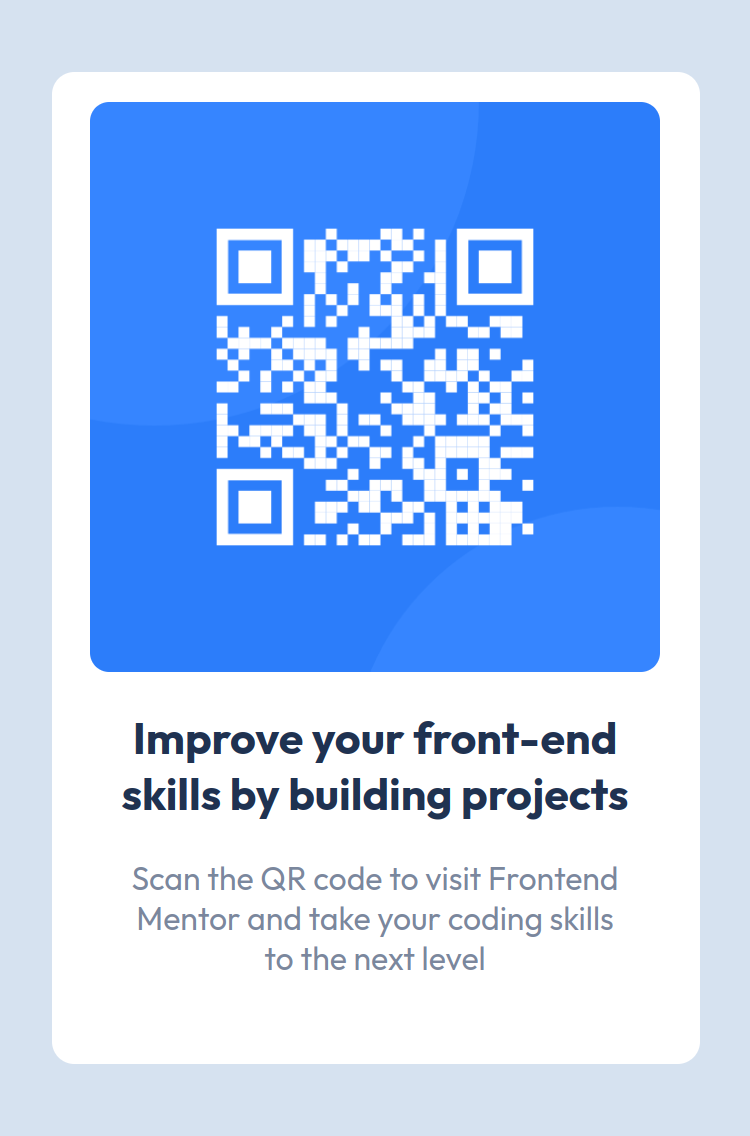
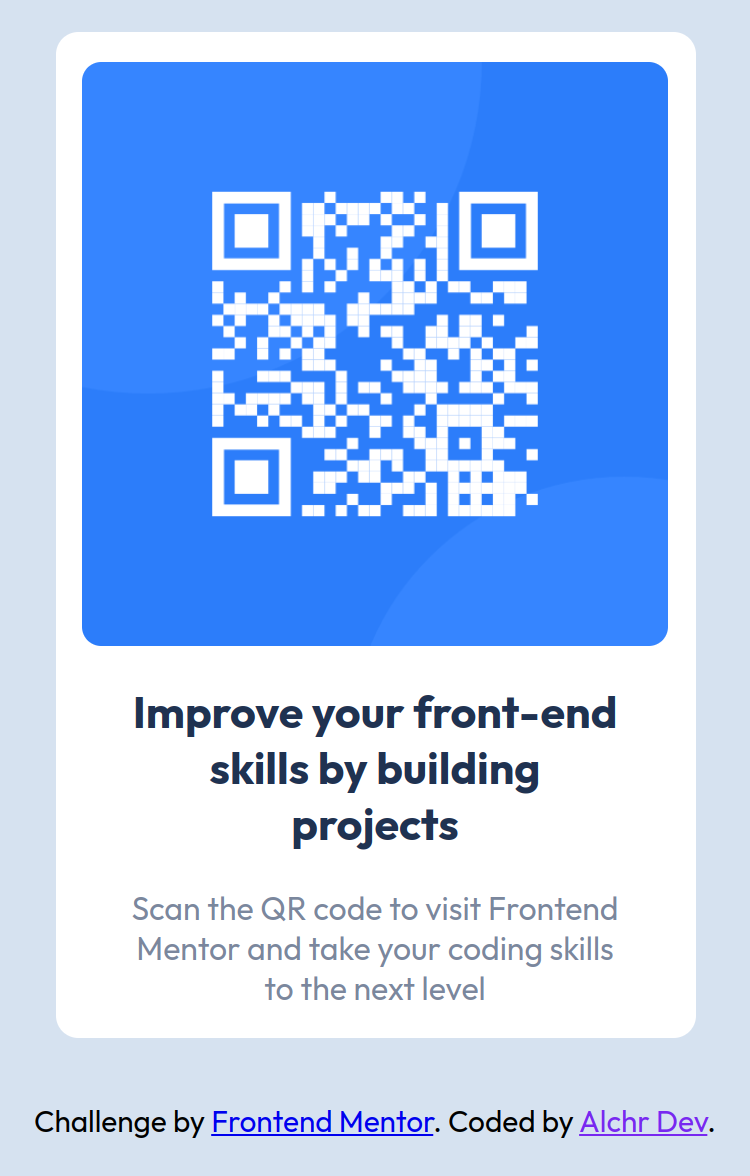
refactor: apply code review suggestions

Changed region(s): [[0.0613, 0.0, 0.9507, 0.9859], [0.276, 0.154, 0.736, 0.493]]

diff --git a/css/style.css b/css/style.css
@@ -11,7 +11,6 @@
 
 html{
   box-sizing: border-box;
-  font-size: 100%;
 }
 
 *,
@@ -25,7 +24,13 @@ body{
   font-family: 'Outfit', sans-serif;
   background-color: var(--light-gray);
   min-height: 100svh;
-  max-width: 100vw;
+  padding: 1rem;
+  display: flex;
+  flex-direction: column;
+  justify-content: center;
+  align-items: center;
+  gap: 2rem;
+  min-height: 100vh;
 }
 
 p{
@@ -39,27 +44,15 @@ img{
   display: block;
 }
 
-main{
-  display: flex;
-  justify-content: center;
-  align-items: center;
-  min-height: 100vh;
-}
-
 .card-qr{
-  height: 496px;
-  width: 324px;
   background-color: var(--white);
   border-radius: .7rem;
   padding: 0.94rem 0.87rem;
   display: flex;
   flex-direction: column;
   align-items: center;
-}
-
-.card-top{
-  width: 285px;
-  height: 285px;
+  max-width: 20rem;
+  text-align: center;
 }
 
 .card-top-img{
@@ -68,7 +61,6 @@ main{
 
 .card-middle{
   padding-inline: 20px;
-  text-align: center;
 }
 
 .card-title{
@@ -90,22 +82,3 @@ main{
   color: var(--by);
 }
 
-@media screen and (min-width: 600px){
-  .card-qr{
-    width: 270px;
-    height: 420px;
-  }
-
-  .card-top{
-    width: 245px;
-    height: 245px;
-  }
-
-  .card-title{
-    font-size: 1.1rem;
-  }
-
-  .card-desc{
-    font-size: .8rem;
-  }
-}

diff --git a/index.html b/index.html
@@ -21,7 +21,7 @@
     <main>
       <article class="card-qr">
         <div class="card-top">
-          <img class="card-top-img" src="./assets/images/image-qr-code.png" alt="Image of qr code">
+          <img class="card-top-img" src="./assets/images/image-qr-code.png" alt="QR code leading to the Frontend Mentor website.">
         </div>
         <div class="card-middle">
           <h1 class="card-title">Improve your front-end skills by building projects</h1>
@@ -30,8 +30,10 @@
       </article>
     </main>
     <footer class="attribution">
-      Challenge by <a href="https://www.frontendmentor.io?ref=challenge" target="_blank">Frontend Mentor</a>. 
-      Coded by <a class="by" href="#">Alchr Dev</a>.
+      <p>
+        Challenge by <a href="https://www.frontendmentor.io?ref=challenge" target="_blank">Frontend Mentor</a>. 
+        Coded by <a class="by" href="#">Alchr Dev</a>.
+      </p>
     </footer>
   </body>
 </html>
